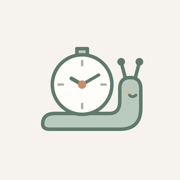
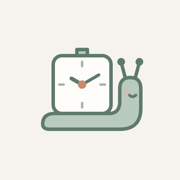
Give Selma a square clock shell to match the other journals

Changed region(s): [[0.2778, 0.25, 0.6389, 0.6667], [0.4444, 0.3611, 0.4722, 0.3889]]

diff --git a/index.html b/index.html
@@ -27,9 +27,9 @@
         <path d="M5 53 Q5 47 12 47 L43 47 Q49 47 49 40 L49 33 Q49 26.5 55 26.5 Q61 26.5 61 33 L61 44 Q61 56 49 56 L9 56 Q5 56 5 53 Z" fill="#B9CBBE" stroke="#5F7A6B" stroke-width="2"/>
         <path d="M54.5 36.5 Q56.3 38.3 58.2 36.5" stroke="#5F7A6B" stroke-width="1.6"/>
         <circle cx="53" cy="34.5" r="1.3" fill="#E3B7A0"/>
-        <path d="M24.5 13.5 L24.5 10 L30.5 10 L30.5 13.5" fill="#B9CBBE" stroke="#5F7A6B" stroke-width="2"/>
-        <circle cx="27.5" cy="30.5" r="17" fill="#FFFDFA" stroke="#5F7A6B" stroke-width="2"/>
-        <path d="M27.5 17 V19.5 M27.5 41.5 V44 M14 30.5 H16.5 M38.5 30.5 H41" stroke="#5F7A6B" stroke-width="1.4" opacity=".55"/>
+        <path d="M24.5 14 L24.5 10.5 L30.5 10.5 L30.5 14" fill="#B9CBBE" stroke="#5F7A6B" stroke-width="2"/>
+        <rect x="11" y="14" width="33" height="33" rx="5" fill="#FFFDFA" stroke="#5F7A6B" stroke-width="2"/>
+        <path d="M27.5 17.5 V20 M27.5 41 V43.5 M14.5 30.5 H17 M38 30.5 H40.5" stroke="#5F7A6B" stroke-width="1.4" opacity=".55"/>
         <path id="hour-hand" d="M27.5 30.5 V23.5" stroke="#5F7A6B" stroke-width="2.2"/>
         <path id="minute-hand" d="M27.5 30.5 V19.5" stroke="#5F7A6B" stroke-width="1.8"/>
         <circle cx="27.5" cy="30.5" r="2.4" fill="#C98B6B"/>

diff --git a/app.js b/app.js
@@ -124,7 +124,7 @@ const INVITATIONS = [
     thoughts: [
       'Open your quotation collection somewhere in the middle. Read one, slowly, twice.',
       'Find a flower photo you had forgotten about. Remember where you were standing.',
-      'Copy out a favourite quotation by hand.',
+      'Copy out a favorite quotation by hand.',
       'Choose one quotation to carry with you for the rest of the day.',
     ],
   },
